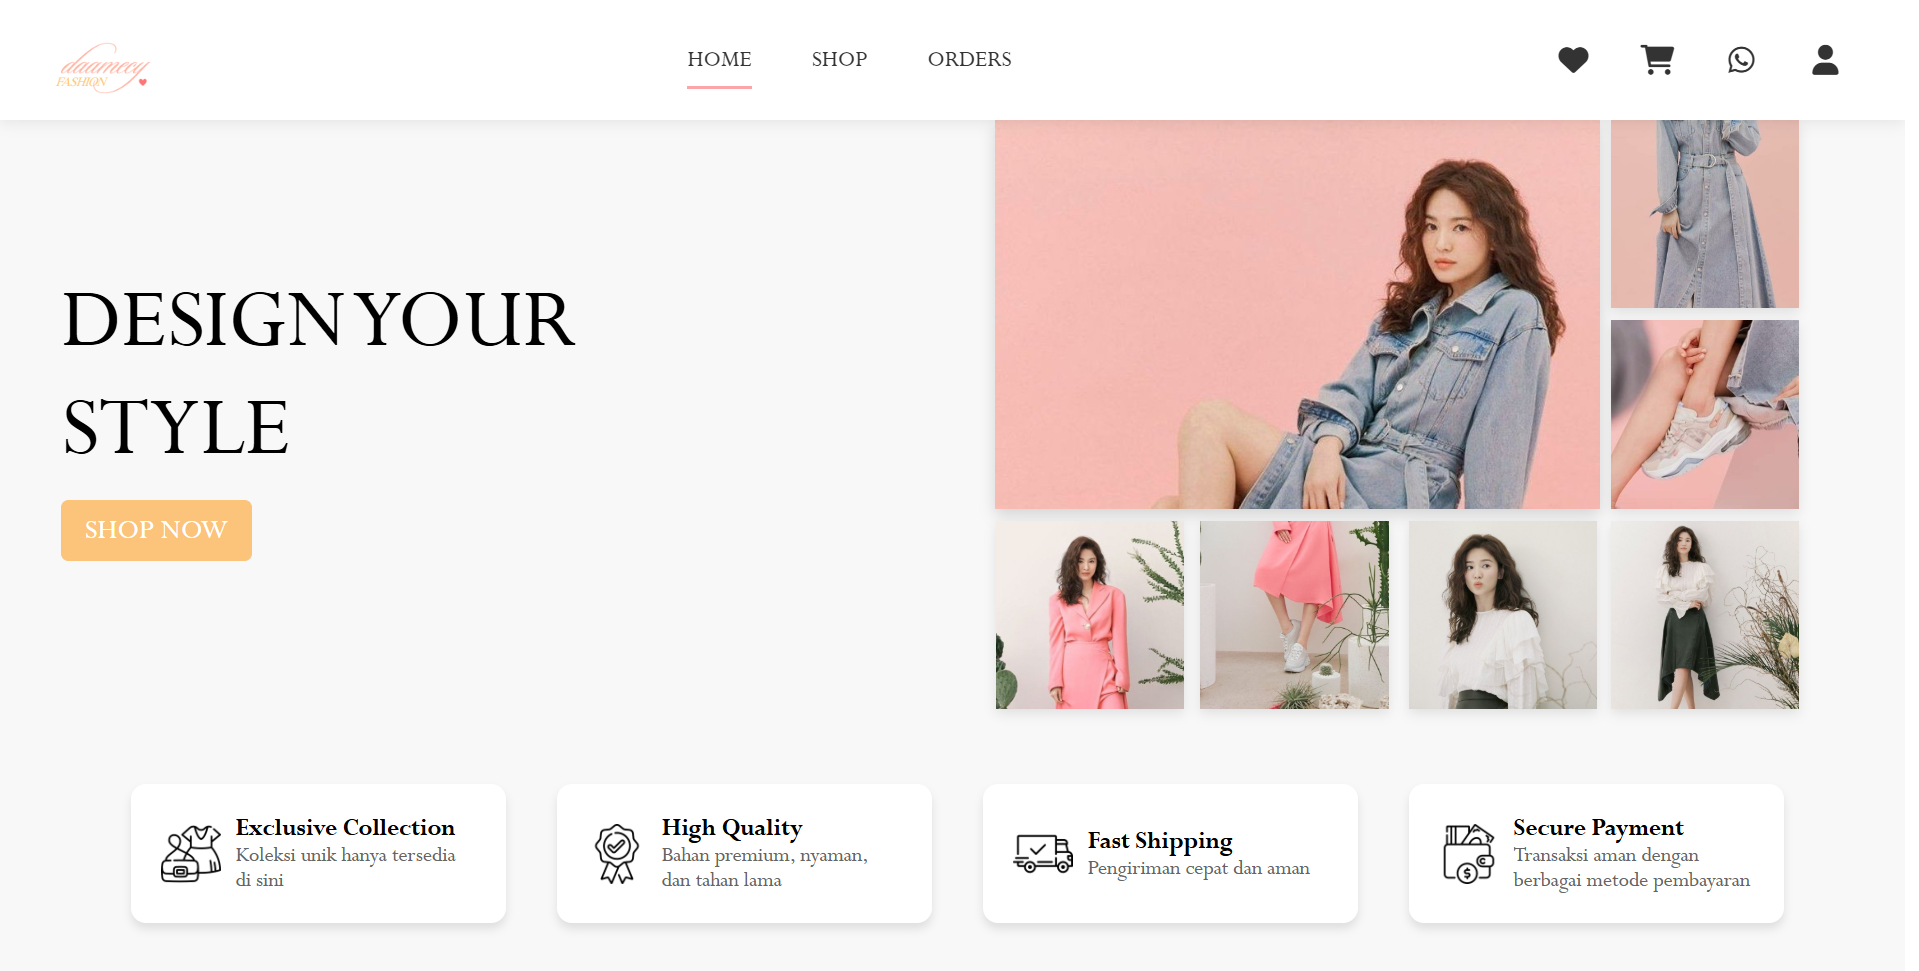
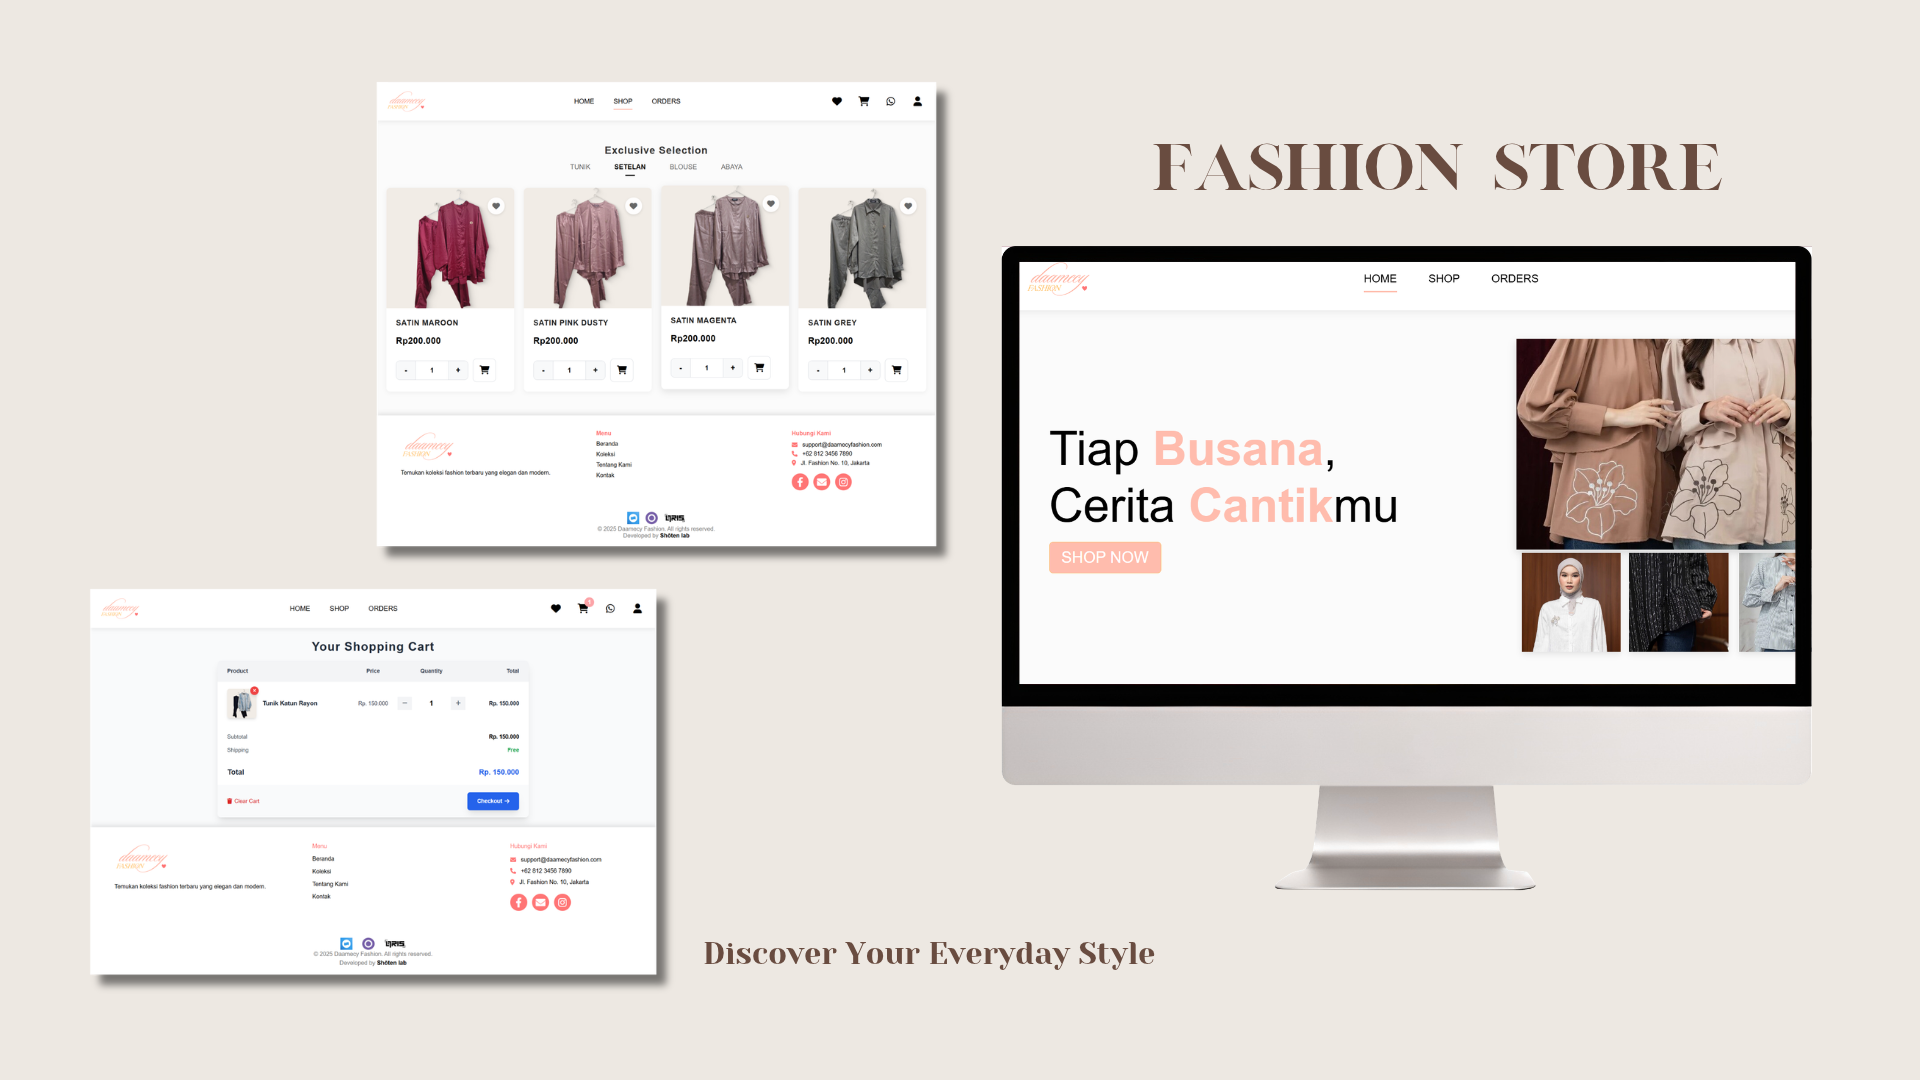
Update portfolio

diff --git a/index.html b/index.html
@@ -348,7 +348,7 @@
         <div class="container">
             <div class="section-title animated">
                 <h2>My Projects</h2>
-                <p class="section-subtitle">Creative solutions & digital experiences that I've designed and developed</p>
+                <p class="section-subtitle">Setiap proyek menjadi ruang untuk belajar, bereksplorasi, dan menciptakan sesuatu yang bermakna.</p>
             </div>
             
             <!-- Background decorative elements -->
@@ -365,7 +365,7 @@
                     <div class="project-card animated delay-1">
                         <div class="project-card-inner">
                             <div class="project-img">
-                                <img src="images/newcookie.png" alt="Food E-Commerce">
+                                <img src="images/spk.png" alt="Food E-Commerce">
                                 <div class="project-overlay">
                                     <div class="project-tags">
                                         <span class="project-tag">HTML</span>
@@ -378,11 +378,8 @@
                                 </div>
                             </div>
                             <div class="project-content">
-                                <h3 class="project-title">NewCookie</h3>
-                                <p class="project-desc">New Cookie is a modern e-commerce platform specifically designed to sell various types of cookies, featuring a sweet and user-friendly interface.</p>
-                                <div class="project-footer">
-                                    <a href="#" class="project-link">Explore Project <i class="fas fa-arrow-right"></i></a>
-                                </div>
+                                <h3 class="project-title">Portal Beasiswa Mahasiswa</h3>
+                                <p class="project-desc">Portal Beasiswa Mahasiswa merupakan website sistem pendukung keputusan yang saya kembangkan secara mandiri untuk membantu proses penentuan penerima beasiswa menggunakan metode Simple Additive Weighting (SAW).</p>
                             </div>
                         </div>
                     </div>
@@ -396,17 +393,14 @@
                                     <div class="project-tags">
                                         <span class="project-tag">FIGMA</span>
                                     </div>
-                                    <a href="#" class="project-view-btn">
+                                    <a href="https://www.figma.com/proto/YuC0l8FrREDrWb54jSJOSv/Bloove?node-id=281-332&viewport=-1189%2C848%2C0.11&t=Zivq2q3HoYzvVAIB-1&scaling=scale-down&content-scaling=fixed&starting-point-node-id=1%3A4&page-id=0%3A1" class="project-view-btn">
                                         <i class="fas fa-external-link-alt"></i>
                                     </a>
                                 </div>
                             </div>
                             <div class="project-content">
                                 <h3 class="project-title">Bloove</h3>
-                                <p class="project-desc">Florist Bloove is a modern and elegant user interface (UI) design specifically created for an online flower shop.</p>
-                                <div class="project-footer">
-                                    <a href="https://www.figma.com/proto/YuC0l8FrREDrWb54jSJOSv/Bloove?page-id=0%3A1&node-id=1-4&p=f&viewport=61%2C578%2C0.04&t=WwEeCva6bnuv5gp3-1&scaling=scale-down&content-scaling=fixed&starting-point-node-id=1%3A4" class="project-link">Explore Project <i class="fas fa-arrow-right"></i></a>
-                                </div>
+                                <p class="project-desc">Bloove merupakan proyek desain UI website florist yang saya kerjakan secara mandiri, dengan fokus pada perancangan tampilan antarmuka yang modern, elegan, dan menarik.</p>
                             </div>
                         </div>
                     </div>
@@ -422,17 +416,14 @@
                                         <span class="project-tag">Flutter</span>
                                         <span class="project-tag">Firebase</span>
                                     </div>
-                                    <a href="#" class="project-view-btn">
+                                    <a href="https://play.google.com/store/apps/details?id=com.tugaspakari.kantinku&hl=id" class="project-view-btn">
                                         <i class="fas fa-external-link-alt"></i>
                                     </a>
                                 </div>
                             </div>
                             <div class="project-content">
                                 <h3 class="project-title">Kantinku</h3>
-                                <p class="project-desc">KANTINKU is a mobile application designed to simplify the food ordering process in canteens, particularly within school, campus, or office environments.</p>
-                                <div class="project-footer">
-                                    <a href="https://play.google.com/store/apps/details?id=com.tugaspakari.kantinku&hl=id" class="project-link">Explore Project <i class="fas fa-arrow-right"></i></a>
-                                </div>
+                                <p class="project-desc">KANTINKU merupakan aplikasi pemesanan makanan berbasis mobile yang dikembangkan secara berkelompok, dengan kontribusi saya pada pengembangan frontend dan analisis sistem.</p>
                             </div>
                         </div>
                     </div>
@@ -456,10 +447,30 @@
                             </div>
                             <div class="project-content">
                                 <h3 class="project-title">Daamecy Fashion</h3>
-                                <p class="project-desc">Daamecy Fashion is a modern e-commerce platform offering a wide range of fashion products for all audiences. </p>
-                                <div class="project-footer">
-                                    <a href="#" class="project-link">Explore Project <i class="fas fa-arrow-right"></i></a>
+                                <p class="project-desc">Website e-commerce fashion yang dikembangkan secara berkelompok, dengan kontribusi saya pada pengembangan tampilan antarmuka (frontend). </p>
+                            </div>
+                        </div>
+                    </div>
+
+                     <!-- Project 5 -->
+                    <div class="project-card animated delay-2">
+                        <div class="project-card-inner">
+                            <div class="project-img">
+                                <img src="images/mipresensi.png" alt="Design UI">
+                                <div class="project-overlay">
+                                    <div class="project-tags">
+                                        <span class="project-tag">Flutter</span>
+                                        <span class="project-tag">Firebase</span>
+                                        <span class="project-tag">Cloudinary</span>
+                                    </div>
+                                    <a href="#" class="project-view-btn">
+                                        <i class="fas fa-external-link-alt"></i>
+                                    </a>
                                 </div>
+                            </div>
+                            <div class="project-content">
+                                <h3 class="project-title">Mipresensi</h3>
+                                <p class="project-desc">MiPresensi merupakan aplikasi presensi berbasis Android yang saya kembangkan secara mandiri dengan memanfaatkan kamera depan dan geolokasi untuk mendukung proses pencatatan kehadiran secara digital. </p>
                             </div>
                         </div>
                     </div>
@@ -467,11 +478,6 @@
                 </div>
             </div>
             
-            <div class="projects-cta animated delay-4">
-                <a href="#" class="btn-primary">
-                    <i class="fas fa-th-large"></i> View All Projects
-                </a>
-            </div>
         </div>
     </section>
     
